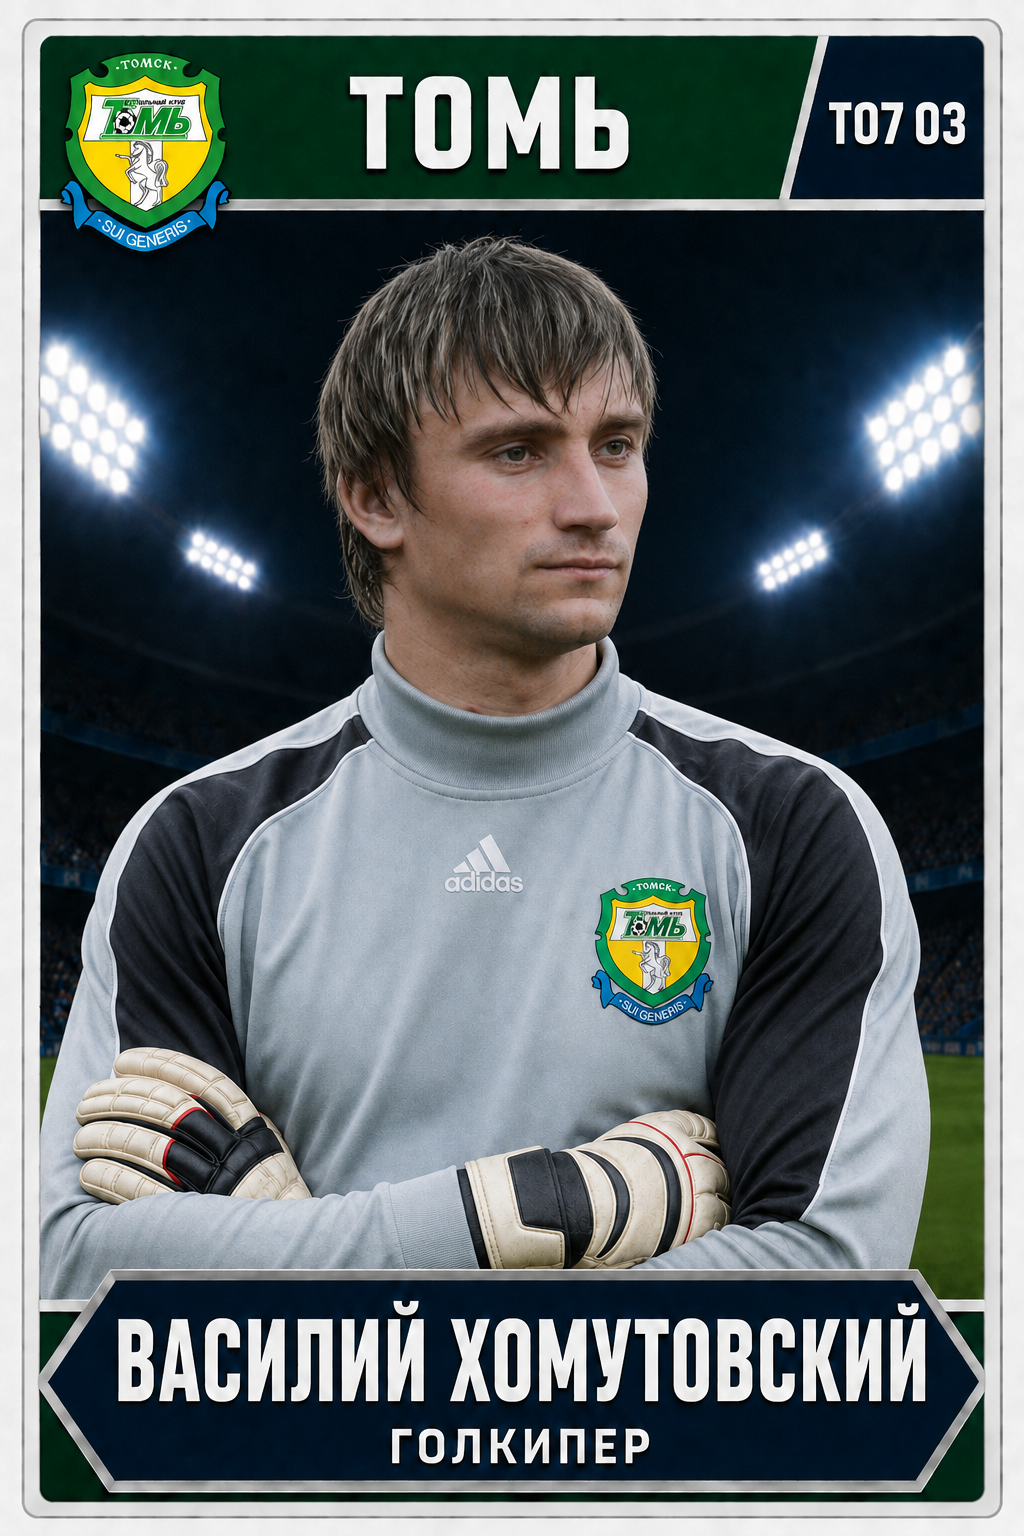
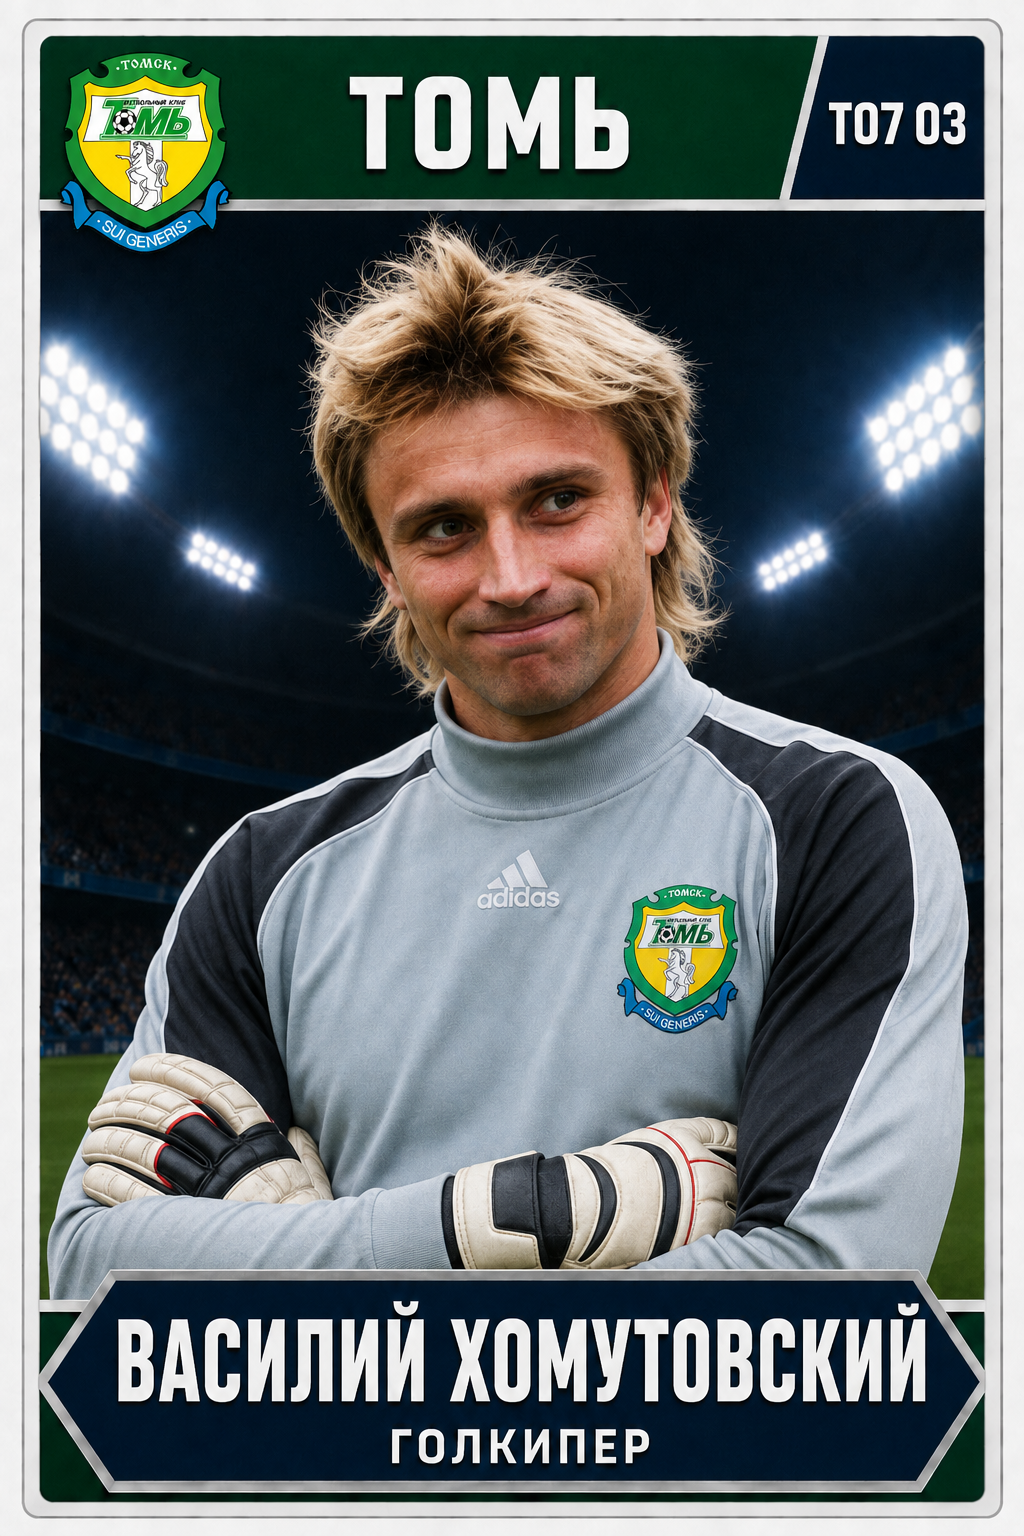
fix: хомутовский

diff --git a/src/App.vue b/src/App.vue
@@ -4,7 +4,7 @@ import { ref } from 'vue'
 import type { Ref } from 'vue'
 
 const isAdmin: Ref<boolean> = ref(false)
-const halaMadrid = '/spainClubsLogo/cards/spain/la-liga/ESP1-16-real-madrid.webp'
+const halaMadrid = 'https://i.pinimg.com/originals/60/0e/19/600e1949da76a5a2b715ac009e1ac378.jpg'
 </script>
 
 <template>
@@ -12,6 +12,6 @@ const halaMadrid = '/spainClubsLogo/cards/spain/la-liga/ESP1-16-real-madrid.webp
   <AppShell v-if="isAdmin" />
   <div v-else class="flex min-h-screen w-full flex-col items-center justify-center gap-6">
     <p>ты не админ, не лазь сюда. как починю, так верну</p>
-    <img class="h-auto max-h-[70vh] max-w-full" :src="halaMadrid" alt="Real Madrid" />
+    <img class="h-auto max-h-[70vh] max-w-full" :src="halaMadrid" alt="Hala Madrid" />
   </div>
 </template>
